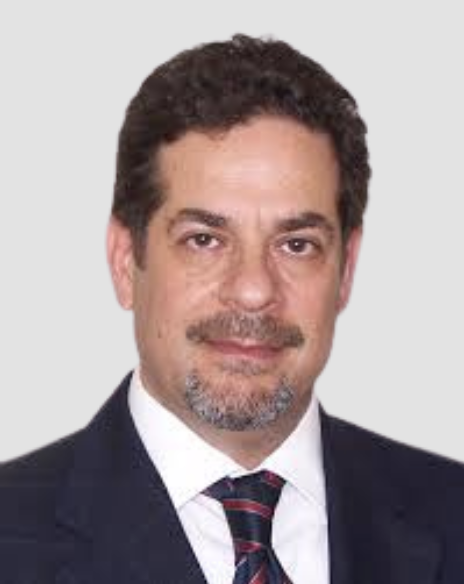
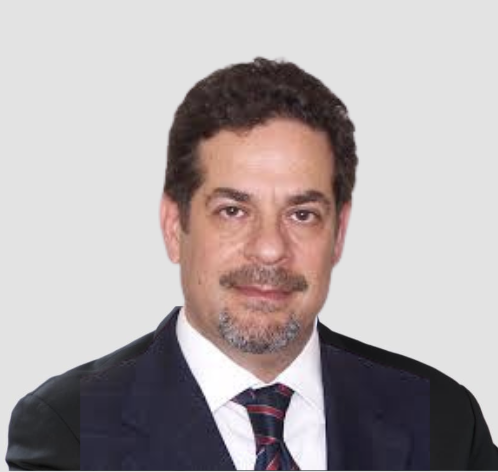
Zoom in on Haitham, Ritesh, Arwa photos; update Khalil image
- Added scale-150 to Haitham, Ritesh, and Arwa for consistent head sizes
- Updated Khalil Jaouni photo with zoomed out version

diff --git a/src/app/about/page.tsx b/src/app/about/page.tsx
@@ -240,21 +240,21 @@ export default function About() {
           </div>
           <div className="grid grid-cols-2 md:grid-cols-4 gap-8">
             {[
-              { name: 'Haitham Saead', role: 'CEO', image: '/team/Haitam Said.jpg' },
-              { name: 'Fahed Alenezi', role: 'Managing Director', image: '/team/Fahed Alenezi.png' },
-              { name: 'Khalil Jaouni', role: 'Executive Director', image: '/team/Khalil Jaouni.png' },
-              { name: 'Ritesh Raj', role: 'Executive Director', image: '/team/Ritesh Raj.png' },
-              { name: 'Rula Jouhar', role: 'COO', image: '/team/Rula.png' },
-              { name: 'AlMutasm Al Shayyab', role: 'Business Development', image: '/team/AlMutasm Al Shayyab.png' },
-              { name: 'Ismail Katanani', role: 'Senior Director', image: '/team/Ismail Katanani.png' },
-              { name: 'Arwa Muhie Eddin', role: 'Talent Acquisition Director', image: '/team/Arwa Muhie Eddin.png' },
+              { name: 'Haitham Saead', role: 'CEO', image: '/team/Haitam Said.jpg', scale: 'scale-150' },
+              { name: 'Fahed Alenezi', role: 'Managing Director', image: '/team/Fahed Alenezi.png', scale: '' },
+              { name: 'Khalil Jaouni', role: 'Executive Director', image: '/team/Khalil Jaouni.png', scale: '' },
+              { name: 'Ritesh Raj', role: 'Executive Director', image: '/team/Ritesh Raj.png', scale: 'scale-150' },
+              { name: 'Rula Jouhar', role: 'COO', image: '/team/Rula.png', scale: '' },
+              { name: 'AlMutasm Al Shayyab', role: 'Business Development', image: '/team/AlMutasm Al Shayyab.png', scale: '' },
+              { name: 'Ismail Katanani', role: 'Senior Director', image: '/team/Ismail Katanani.png', scale: '' },
+              { name: 'Arwa Muhie Eddin', role: 'Talent Acquisition Director', image: '/team/Arwa Muhie Eddin.png', scale: 'scale-150' },
             ].map((member, index) => (
               <div key={index} className="text-center">
                 <div className="w-32 h-32 mx-auto mb-4 rounded-full overflow-hidden border-4 border-white shadow-lg bg-neutral-100">
                   <img
                     src={member.image}
                     alt={member.name}
-                    className="w-full h-full object-cover object-top"
+                    className={`w-full h-full object-cover object-top ${member.scale}`}
                   />
                 </div>
                 <h3 className="text-lg font-bold text-dark-900">{member.name}</h3>
